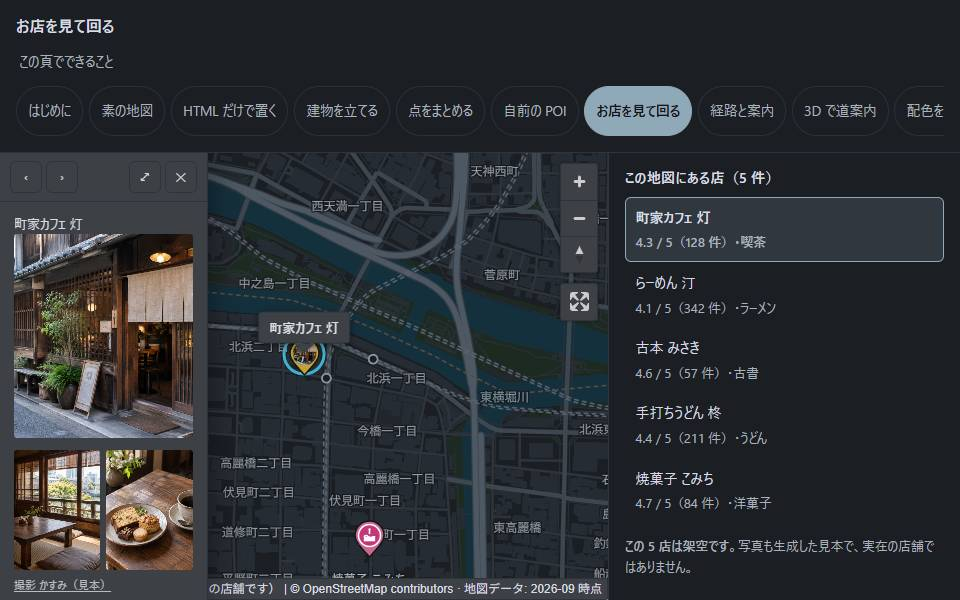
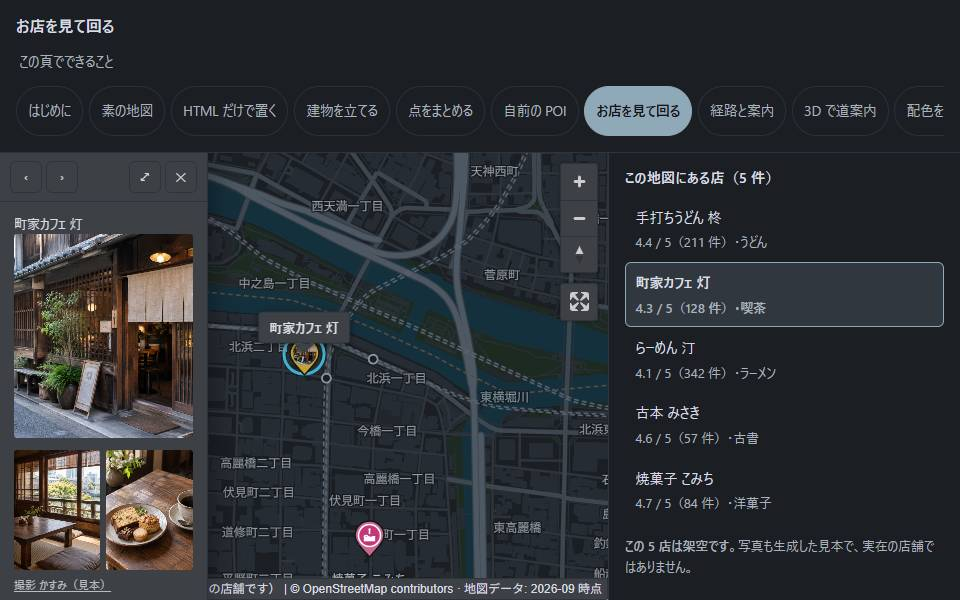
feat(poi): 媒体のプランで一覧を並べ替える（`rank-key` / `rank-order`）
「媒体で使う場合、**プランごとに装飾や順番を変えたい**」（2026-10-09）の第 1 段。
設計は `.claude/proposals/2026-10-09-list-rank.md`。

```html
<mmj-poi rank-key="plan" rank-order="platinum,gold,silver,bronze"></mmj-poi>
```

**MMJ は「ゴールド」の意味を知らない。**段の数も名前も媒体ごとに違うので、
受け取るのは「どの属性を見るか」と「どの順に並べるか」だけ（D-001）。

## 1 か所で揃える

一覧・`‹ ›` の送り・`?shop=` の復元は、**同じ配列の順に従う**。
読み込んだ直後に並べ替えるので、**どれか 1 つだけずれることがない**。

**HTML に書かれた一覧も並べ替える。**揃えないと「一覧の順」と「送りの順」が
食い違い、どちらを見ているのか分からなくなる——何もしないより悪い。
**作り直さない**ので、検索に出ていた文字は消えない。

## 安定であること

**同じ順位の中では元の順をそのまま保つ。**安定でないと、
**同じプランの店が読み込むたびに入れ替わる**。掲載順がぶれるのは、お金の話なので重い。

**並びに無い値と、値を持たない点は末尾**（そこでも元の順）。綴り違いや新しい
プランで**店が一覧から消えない**。

## 書いている最中に直した 1 つ

未知の値を `Infinity` にしていた。**同点どうしの引き算が `NaN` になり、
比較関数として壊れる**（並びが環境任せになる）。試験は通っていたが、
たまたま通っていただけなので `order.length` に替えた。

## 広告であることを、説明書に書いた

**お金を払った順に並ぶ一覧は広告。**2023-10 からのステマ規制に触れうるので、
「掲載順がプランで決まっているなら、そう分かる表示を出してください」と明記した。
**表示文言は決めない**（媒体の判断で、こちらが決めると必ず合わない）。

見本の 5 店にプランを入れて実物で確認した（プラチナ→金→銀→銅→無し）。
`pnpm smoke` は 34 枚とも指摘なし、通信失敗 0・console 0。

Claude-Session: https://claude.ai/code/session_01JEnSBiPU7urDZnApNWnAtP

Changed region(s): [[0.625, 0.33, 1.0, 0.63], [0.6562, 0.66, 0.8125, 0.75]]

diff --git a/packages/elements/test/list.test.js b/packages/elements/test/list.test.js
@@ -1,7 +1,7 @@
 import { describe, expect, it } from "vitest";
 
 import { writeShopParam } from "../src/card.js";
-import { indexOfEntry, listEntries, needsScroll } from "../src/list.js";
+import { indexOfEntry, listEntries, needsScroll, parseRankOrder, sortByRank } from "../src/list.js";
 
 /** `card-id="shop_id"` / `card-title="shop_name"` を指定した想定 */
 const keys = { idKey: "shop_id", titleKey: "shop_name" };
@@ -99,5 +99,79 @@ describe("needsScroll", () => {
   it("**壊れた値で落とさない**", () => {
     expect(needsScroll(null, box)).toBe(false);
     expect(needsScroll({ top: 0, bottom: 1 }, null)).toBe(false);
+  });
+});
+
+/**
+ * 媒体のプランで並べ替える。**MMJ は「ゴールド」の意味を知らない**——
+ * 「どの属性を見るか」と「どの順に並べるか」だけを受け取る（D-001・データを持たない）。
+ *
+ * **お金を払った順に並ぶ一覧は広告。**並び順そのものは媒体の判断で、
+ * ここは渡された順に並べるだけ。
+ */
+describe("parseRankOrder", () => {
+  it("読点で割って、前後の空白を落とす", () => {
+    expect(parseRankOrder(" platinum , gold ,silver ")).toEqual(["platinum", "gold", "silver"]);
+  });
+
+  it("空と重複は落とす", () => {
+    expect(parseRankOrder("gold,,gold,silver")).toEqual(["gold", "silver"]);
+    expect(parseRankOrder("")).toEqual([]);
+    expect(parseRankOrder(null)).toEqual([]);
+  });
+});
+
+/** 並べ替えの試験で使う点。**プランを持たない点も作れる** */
+const feature = (/** @type {string} */ name, /** @type {string} */ plan = "") => ({
+  properties: plan === "" ? { name } : { name, plan },
+});
+const names = (/** @type {any[]} */ list) => list.map((f) => f.properties.name);
+
+describe("sortByRank", () => {
+
+  it("渡された順に並べる", () => {
+    const out = sortByRank([feature("a", "silver"), feature("b", "gold")], {
+      key: "plan",
+      order: ["gold", "silver"],
+    });
+    expect(names(out)).toEqual(["b", "a"]);
+  });
+
+  /**
+   * **安定でないと、同じプランの店が読み込むたびに入れ替わる。**
+   * 媒体の「掲載順」がぶれるのは、お金の話なので重い。
+   */
+  it("**同じ順位の中では、元の順をそのまま保つ**", () => {
+    const out = sortByRank(
+      [feature("a", "gold"), feature("b", "gold"), feature("c", "gold")],
+      { key: "plan", order: ["gold"] },
+    );
+    expect(names(out)).toEqual(["a", "b", "c"]);
+  });
+
+  /** **知らない値で店を消さない。**綴り違いも新しいプランも、末尾に出す */
+  it("**並びに無い値と、値を持たない点は末尾**（元の順のまま）", () => {
+    const out = sortByRank(
+      [feature("a", "zzz"), feature("b", "gold"), feature("c", ""), feature("d", "gold")],
+      { key: "plan", order: ["gold"] },
+    );
+    expect(names(out)).toEqual(["b", "d", "a", "c"]);
+  });
+
+  it("**元の配列を変えない**（ECC coding-style）", () => {
+    const input = [feature("a", "silver"), feature("b", "gold")];
+    sortByRank(input, { key: "plan", order: ["gold", "silver"] });
+    expect(names(input)).toEqual(["a", "b"]);
+  });
+
+  it("属性名や並びが無ければ、そのまま", () => {
+    const input = [feature("a", "silver"), feature("b", "gold")];
+    expect(names(sortByRank(input, { key: null, order: ["gold"] }))).toEqual(["a", "b"]);
+    expect(names(sortByRank(input, { key: "plan", order: [] }))).toEqual(["a", "b"]);
+  });
+
+  it("壊れたデータでも落ちない", () => {
+    expect(sortByRank(null, { key: "plan", order: ["gold"] })).toEqual([]);
+    expect(sortByRank([null, feature("a", "gold")], { key: "plan", order: ["gold"] })).toHaveLength(2);
   });
 });

diff --git a/packages/elements/src/list.js b/packages/elements/src/list.js
@@ -93,3 +93,67 @@ export function needsScroll(item, box) {
   if (!item || !box) return false;
   return item.top < box.top || item.bottom > box.bottom;
 }
+
+/**
+ * 並び順の指定を読む。`platinum,gold,silver,bronze` のような**値の並び**。
+ *
+ * **MMJ は「ゴールド」の意味を知らない。**段の数も名前も媒体ごとに違うので、
+ * 受け取るのは「どの順に並べるか」だけ（D-001・データを持たない）。
+ *
+ * @param {string | null | undefined} attribute
+ * @returns {string[]} 左が上。空と重複は落とす
+ */
+export function parseRankOrder(attribute) {
+  if (typeof attribute !== "string") return [];
+  /** @type {string[]} */
+  const order = [];
+  for (const raw of attribute.split(",")) {
+    const name = raw.trim();
+    if (name !== "" && !order.includes(name)) order.push(name);
+  }
+  return order;
+}
+
+/**
+ * 点を、媒体のプラン順に並べ替える。**元の配列は変えない**（ECC coding-style）。
+ *
+ * ## 安定であること
+ *
+ * **同じ順位の中では、元の順をそのまま保つ。**安定でないと、
+ * **同じプランの店が読み込むたびに入れ替わる**。媒体の「掲載順」がぶれるのは、
+ * お金の話なので重い。
+ *
+ * ## 知らない値を捨てない
+ *
+ * **並びに無い値と、値を持たない点は末尾**（そこでも元の順のまま）。
+ * 綴り違いや新しいプランが来たときに、**店が一覧から消えるより末尾に出るほうがよい**
+ * （`icons` の「知らない名前は描かない＝丸のまま」と同じ考え方）。
+ *
+ * ## これは広告である
+ *
+ * **お金を払った順に並ぶ一覧は広告。**並べるかどうかも、
+ * 広告だと分かる表示を出すかどうかも**媒体の判断**で、ここは渡された順に並べるだけ。
+ *
+ * @param {readonly any[] | null | undefined} features
+ * @param {{ key: string | null, order: readonly string[] }} input
+ * @returns {any[]}
+ */
+export function sortByRank(features, input) {
+  const list = Array.isArray(features) ? [...features] : [];
+  const { key, order } = input;
+  if (typeof key !== "string" || key === "" || !Array.isArray(order) || order.length === 0) {
+    return list;
+  }
+
+  const rankOf = (/** @type {any} */ feature) => {
+    const value = feature?.properties?.[key];
+    const at = typeof value === "string" ? order.indexOf(value) : -1;
+    // **知らない値は末尾。**`Infinity` は使わない——同点どうしの引き算が
+    // `NaN` になり、比較関数として壊れる（並びが環境任せになる）
+    return at < 0 ? order.length : at;
+  };
+
+  // **`Array.prototype.sort` は安定**（ES2019 以降）。
+  // 位置を添えて比べ直す必要は無いが、**同点のとき 0 を返すこと**が要る
+  return list.sort((a, b) => rankOf(a) - rankOf(b));
+}

diff --git a/packages/elements/src/list-dom.js b/packages/elements/src/list-dom.js
@@ -66,6 +66,25 @@ export function ensureListContrast(colors) {
 }
 
 /**
+ * HTML にある項目を、渡された順に並べ替える。**要素は作り直さない。**
+ *
+ * **一覧に無い項目は動かさない。**置く側が意図して置いたもの（「その他」など）を、
+ * 黙って末尾へ飛ばさないため。
+ *
+ * @param {HTMLElement} container
+ * @param {readonly { id: string }[]} entries
+ */
+function reorderList(container, entries) {
+  if (!Array.isArray(entries) || entries.length === 0) return;
+  for (const entry of entries) {
+    const item = container.querySelector(`[${ITEM_ATTR}="${CSS.escape(entry.id)}"]`);
+    // **項目そのものではなく、一覧の直下にある行を動かす**（`<li>` の中に `<a>` がある）
+    const row = item instanceof HTMLElement ? (item.closest("li") ?? item) : null;
+    if (row instanceof HTMLElement && row.parentElement === container) container.append(row);
+  }
+}
+
+/**
  * 一覧を地図へ繋ぐ。
  *
  * @param {{
@@ -84,6 +103,15 @@ export function mountList(input) {
   if (container.querySelectorAll(`[${ITEM_ATTR}]`).length === 0) {
     build(container, input.entries, input.className);
   }
+
+  // **一覧の順を、送りの順と揃える。**
+  //
+  // 一覧は HTML に書かれている（検索に出すため）。プランで並べ替えたとき、
+  // **ここを揃えないと「一覧の順」と「[‹] [›] の送り順」が食い違う**——
+  // どちらを見ているのか分からなくなり、何もしないより悪い。
+  //
+  // **作り直さない。**置く側が書いた要素を、そのまま並べ替える（文字は消えない）。
+  reorderList(container, input.entries);
 
   /** @param {any} event */
   const onClick = (event) => {

diff --git a/packages/elements/src/mmj-poi.js b/packages/elements/src/mmj-poi.js
@@ -37,7 +37,7 @@ import {
 } from "./card.js";
 import { mountCard } from "./card-dom.js";
 import { parseIcons } from "./icons.js";
-import { listEntries } from "./list.js";
+import { listEntries, parseRankOrder, sortByRank } from "./list.js";
 import { ensureListContrast, mountList } from "./list-dom.js";
 import { PIN_PHOTO, firstImageUrl, parsePinColors, pinImageParts, pinPath } from "./pin.js";
 import { POI_DEFAULTS, buildPoiSpec } from "./poi.js";
@@ -320,7 +320,13 @@ export class MmjPoi extends HTMLElement {
       const response = await fetch(src);
       if (!response.ok) throw new Error(`${response.status} ${response.statusText}`);
       const json = await response.json();
-      this.features = Array.isArray(json?.features) ? json.features : [];
+      // **媒体のプラン順に並べ替える。**一覧・`‹ ›` の送り・`?shop=` の復元は
+      // すべてこの配列の順に従うので、**ここ 1 か所で揃う**。
+      // 指定が無ければ、いままでどおり GeoJSON の順
+      this.features = sortByRank(Array.isArray(json?.features) ? json.features : [], {
+        key: this.getAttribute("rank-key"),
+        order: parseRankOrder(this.getAttribute("rank-order")),
+      });
     } catch (error) {
       // 握り潰さない（§8）。**送りと復元だけが消える**ことを名乗る
       console.error("[mmj-poi] 一覧を読めませんでした。次/前と URL の復元は出ません", error);

diff --git a/apps/demo/shops.html b/apps/demo/shops.html
@@ -75,6 +75,7 @@
              card-title="shop_name" card-images="photos" card-body="description"
              card-image-credit="photo_author" card-image-credit-href="photo_author_url"
              pin-image="photos"
+             rank-key="plan" rank-order="platinum,gold,silver,bronze"
              pin-color-key="category"
              pin-colors="cafe:#C9A227,ramen:#E4572E,books:#4E8098,udon:#D9A441,cake:#C96A8B"
              card-rating="rating" card-rating-count="review_count"
